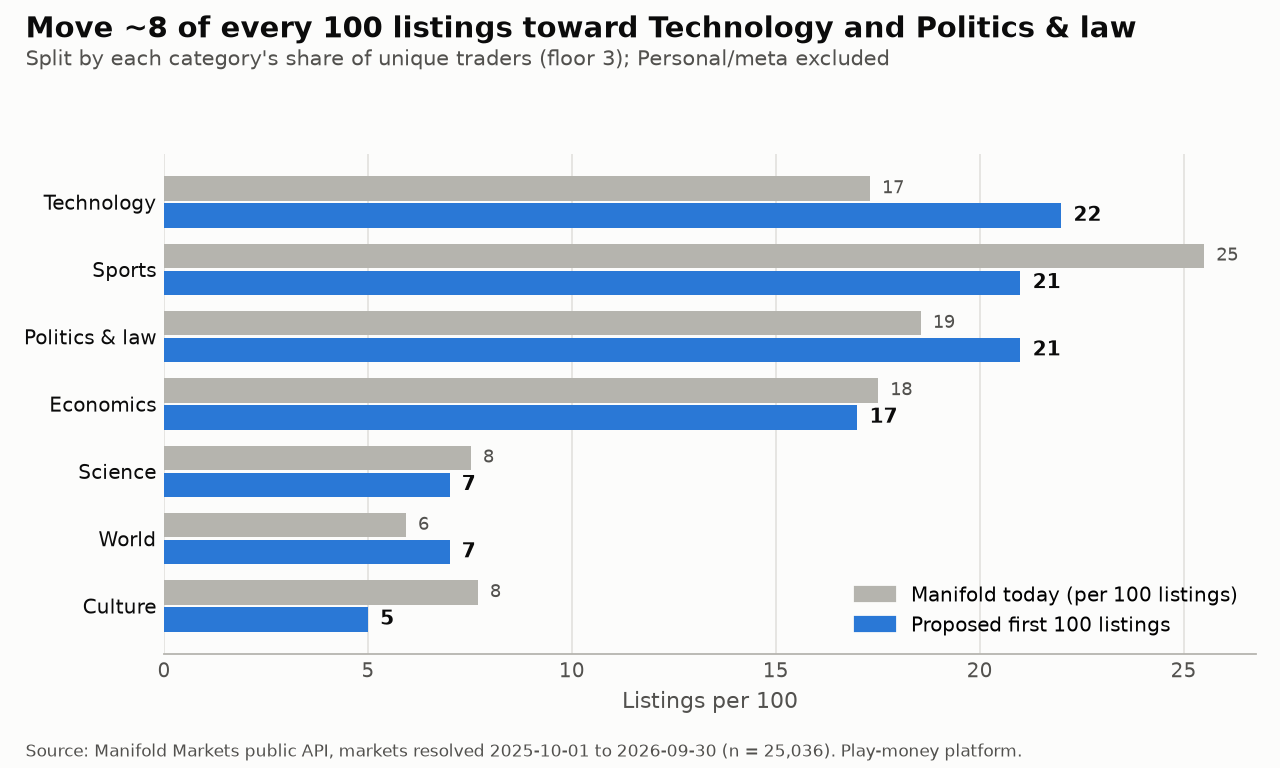
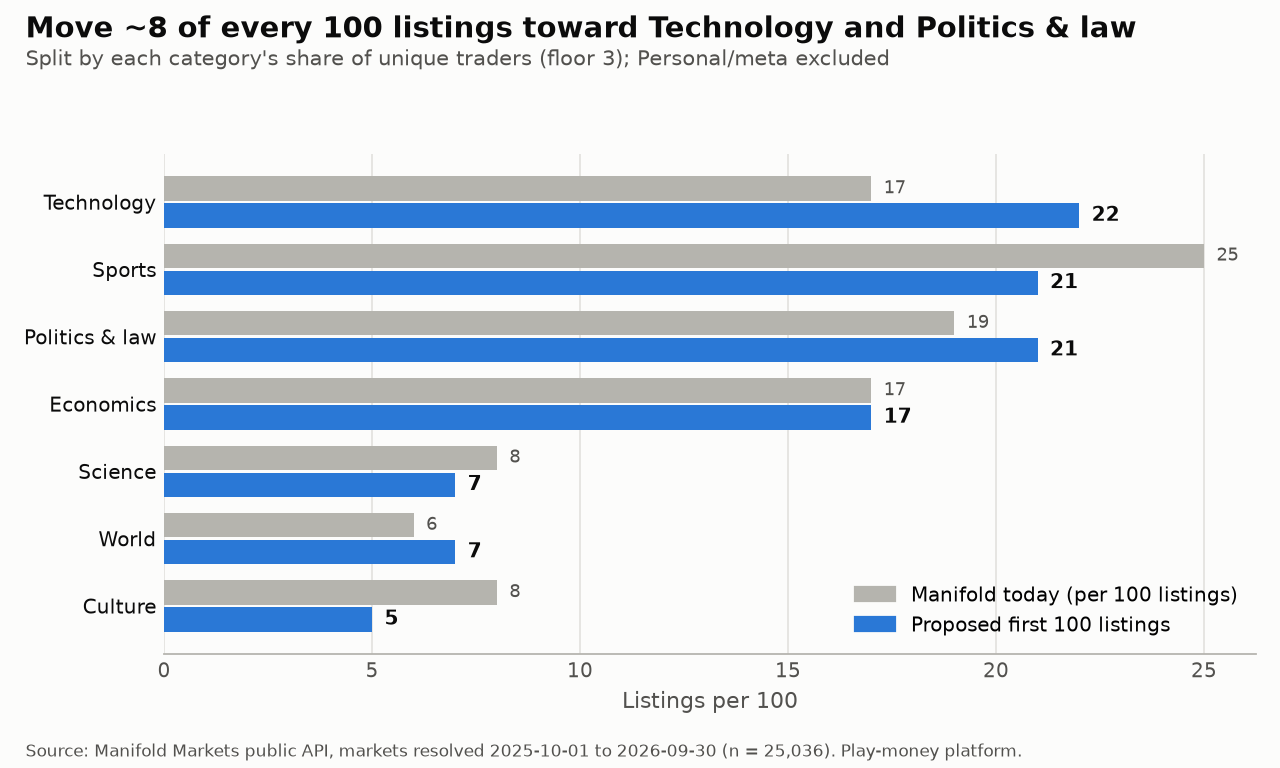
Verify citations; listing-plan current mix sums to 100
- real_money_comparison.md: every published number now carries its page
  (Le 2026 pp. 2, 5, 6, 22; Burgi, Deng & Whelan 2026 pp. 3, 17; Page &
  Clemen 2013 p. 491). Kalshi's >60% long-shot loss is post-fee for Takers
  and is presented as directional only vs our pre-fee figure; adds Le's
  horizon-matched 12-24h slopes
- Listing plan: Manifold's current mix rounded with the same
  largest-remainder rule (whole listings, sums to 100); stricter test

diff --git a/pipeline/analysis/demand.py b/pipeline/analysis/demand.py
@@ -147,7 +147,10 @@ def listing_plan(df: pd.DataFrame, category_col: str = "category") -> pd.DataFra
     mix = listing_mix(real, [category_col])
     plan = pd.DataFrame(
         {
-            "current_per_100": mix.share_listings * 100,  # Manifold's mix, exchange categories only
+            # Manifold's current mix (exchange categories only), rounded by the same
+            # largest-remainder rule as the plan: whole listings that sum to exactly 100
+            "current_share": mix.share_listings,
+            "current_per_100": allocate(mix.share_listings, floor=0),
             "trader_share": mix.share_traders,
             "median_traders": mix.median_traders,
         }
@@ -461,7 +464,7 @@ def fig_listing_plan(plan: pd.DataFrame, n: int) -> str:
     ax.barh(y + h / 2 + 0.02, t.current_per_100, h, color=MUTED)
     ax.barh(y - h / 2 - 0.02, t.plan_first_100, h, color=BLUE)
     for yi, (cur, new) in enumerate(zip(t.current_per_100, t.plan_first_100, strict=True)):
-        ax.text(cur + 0.3, yi + h / 2 + 0.02, f"{cur:.0f}", va="center", fontsize=8, color=TEXT_2)
+        ax.text(cur + 0.3, yi + h / 2 + 0.02, f"{cur}", va="center", fontsize=8, color=TEXT_2)
         ax.text(
             new + 0.3,
             yi - h / 2 - 0.02,

diff --git a/tests/test_analysis.py b/tests/test_analysis.py
@@ -8,6 +8,7 @@ from pipeline.analysis.demand import (
     allocate,
     bottom_share,
     gini,
+    listing_plan,
     median_ci,
     share_of_markets_for,
     top_share,
@@ -79,3 +80,21 @@ def test_brier_and_log_loss_reward_better_forecasts():
     good, bad = pd.Series([0.9, 0.1, 0.8, 0.2]), pd.Series([0.5, 0.5, 0.5, 0.5])
     assert brier(good, y) < brier(bad, y) == pytest.approx(0.25)
     assert log_loss(good, y) < log_loss(bad, y)
+
+
+def test_listing_plan_columns_are_whole_listings_summing_to_100():
+    df = pd.DataFrame(
+        {
+            "category": ["Sports"] * 5
+            + ["Technology"] * 3
+            + ["Culture"] * 2
+            + ["Uncategorized"] * 4,
+            "unique_traders": [10] * 5 + [30] * 3 + [5] * 2 + [1] * 4,
+            "volume": [1.0] * 14,
+        }
+    )
+    plan = listing_plan(df)
+    for col in ("current_per_100", "plan_first_100"):
+        assert pd.api.types.is_integer_dtype(plan[col]), col  # whole listings, not shares
+        assert plan[col].sum() == 100, col
+    assert "Uncategorized" not in plan.index

diff --git a/docs/real_money_comparison.md b/docs/real_money_comparison.md
@@ -1,25 +1,30 @@
 # How do Manifold's play-money prices compare with real-money markets?
 
-Our numbers come from `reports/results.json` (`pricing` section) and are reproduced by `python -m pipeline.analysis.calibration`. Published numbers are quoted from the cited papers. Units differ between studies (noted per row), so read this as a comparison of **direction and rough size**, not a like-for-like test.
+Our numbers come from `reports/results.json` (`pricing` section) and are reproduced by `python -m pipeline.analysis.calibration`. Each published number has its page reference so it can be checked in the source PDF. Units and horizons differ between studies (noted per row), so this compares **direction and rough size**, not a like-for-like test.
 
-| Measure | Manifold (this project) | Real-money evidence | Source |
+| Measure | Manifold (this project) | Real-money evidence | Where in the source |
 |---|---|---|---|
-| Calibration slope, ~1 day before close (logistic recalibration; >1 = underconfident, i.e. prices compressed toward 50%) | **1.25** (95% CI 1.19–1.31), 8,482 markets, price 24h before close | Mean slope rises from **0.99** within one hour of resolution to **1.32** beyond one month (Kalshi, cell-level averages over trades) | Le (2026) |
-| Calibration slope ~1 hour before close | **1.32** (95% CI 1.25–1.39) | **0.99** within one hour of resolution | Le (2026) |
-| Politics | **1.28** (Politics & law) | Persistently underconfident: mean slope **1.31** on Polymarket, **1.64** on Kalshi | Le (2026) |
-| Sports | **1.11** (95% CI 0.95–1.27; can't reject 1) | Well calibrated at short-to-medium horizons (slopes **0.90–1.10**) | Le (2026) |
-| Long shots: average return of buying YES below 10% | **−67%** (pre-fee, play money; 3,855 markets) | Contracts under 10¢ "lose over 60 percent" of the money invested | Bürgi, Deng & Whelan (2026) |
-| Favorites: average return of buying YES above 50% | **+2.0%** (pre-fee, play money) | "a small positive rate of return" for contracts above 50¢ | Bürgi, Deng & Whelan (2026) |
-| Bias vs. time to expiration | Bias present at 24h and 1h | Favorite–long-shot bias grows with time to expiration; markets are reasonably well calibrated close to expiration | Page & Clemen (2013) |
+| Calibration slope at ~1 day before close (logistic recalibration; > 1 = underconfident, prices compressed toward 50%) | **1.25** (95% CI 1.19–1.31), one price per market 24 h before close, 8,482 markets | 12–24 h bin, trade-weighted: Kalshi **1.053** Sports, **1.006** Crypto, **1.477** Politics; Polymarket **1.059**, **0.996**, **1.277** | Le (2026), Table 15, p. 22 |
+| Calibration slope ~1 hour before close | **1.32** (95% CI 1.25–1.39), price 1 h before close | Kalshi: the mean cell-level slope (averaged across domain × trade-size cells) rises from **0.99** within one hour of resolution to **1.32** beyond one month | Le (2026), p. 2 |
+| Politics | **1.28** (Politics & law, 24 h) | 12–24 h bin: Kalshi **1.477**, Polymarket **1.277**. Across horizons, trade-weighted mean over the seven reliable bins (3 h to 1 month+): Polymarket **1.31**, Kalshi **1.64** | Le (2026), p. 2; definition in the Table 15 note, p. 22 |
+| Sports | **1.11** (95% CI 0.95–1.27; can't reject 1) | Kalshi Sports is well calibrated from 0 to 48 hours (slopes **0.90–1.10**) and underconfident beyond one month (**1.74**) | Le (2026), p. 6 |
+| Long shots: average return of buying YES below 10% | **−67%**, *pre-fee*, play money, 3,855 markets | Kalshi, *post-fee* for Takers: average loss rates for contracts priced 10¢ and under exceed **60%** | Bürgi, Deng & Whelan (2026), Section 3.3 and Figure 5, p. 17; also summarized in the introduction, p. 3 |
+| Favorites: average return of buying YES above 50% | **+2.0%**, *pre-fee*, play money | Kalshi, post-fee: small positive returns above 50¢, statistically significant above 70¢ | Bürgi, Deng & Whelan (2026), p. 17 |
+| Bias vs. time to expiration | Present at both 24 h and 1 h | Favorite–long-shot bias grows with time to expiration; markets are reasonably well calibrated when expiration is near | Page & Clemen (2013), abstract, p. 491 |
 
 ## Reading it
 
-- **The direction matches the real-money evidence:** long shots are overpriced and favorites underpriced (a favorite–long-shot bias), and Politics is underconfident. Even on a play-money platform the pattern and its rough size line up with Kalshi and Polymarket.
-- **The one clear difference is close to resolution.** Real-money markets converge to calibration within the last hour (slope 0.99); Manifold does not (1.32), even though its accuracy still improves (Brier 0.052 at 1h vs 0.075 at 24h). One plausible reason, which we haven't tested: with play money, the reward for pushing a near-certain market from 97% to 99% is tiny, so nobody bothers, while real-money traders are paid to close that gap.
-- **Units differ.** Le (2026) weights by trades and reports cell-level averages across domains and trade sizes; Bürgi et al. use Kalshi's closing and daily prices; we use one price per market at a fixed horizon. Le (2026) is a single-author arXiv preprint and Bürgi et al. (2026) is a working paper; Page & Clemen (2013) is peer-reviewed.
+- **The direction matches the real-money evidence.** Long shots are overpriced and favorites underpriced, Politics is the most underconfident domain, and Sports is the closest to calibrated. Our 24 h Politics slope (1.28) sits between Polymarket and Kalshi in the same horizon bin (1.28 and 1.48). Our Sports slope (1.11) is slightly above theirs (about 1.05) and statistically consistent with 1.
+- **The long-shot comparison is directional only.** Bürgi et al.'s 60%+ loss is *after* Kalshi's fees, for contracts at or below 10¢. Our −67% is *before* fees, on play money, for prices below 10%. Both say long shots lose most of what's put into them, but the numbers aren't directly comparable. Our figure is a size-of-mispricing measure, not a trading strategy.
+- **The clear difference is close to resolution.** Le reports Kalshi's average slope at about 0.99 within the last hour; Manifold is at 1.32 one hour before close, even though its accuracy still improves (Brier 0.052 at 1 h vs. 0.075 at 24 h). A plausible explanation, which we haven't tested: with play money, the reward for pushing a near-certain market from 97% to 99% is tiny, while real-money traders are paid to close that gap.
+- **Methods and status differ.**
+  - Le (2026) is a single-author arXiv preprint. It estimates slopes on trades and reports cell-level or trade-weighted averages. Its Polymarket results exclude the two shortest bins because of timestamp noise (p. 5).
+  - Bürgi, Deng & Whelan (2026) is a working paper using Kalshi's closing and daily prices for contracts open at least 24 h.
+  - Page & Clemen (2013) is peer-reviewed.
+  - We use one price per market at a fixed horizon.
 
 ## Sources
 
-- Bürgi, C., Deng, W., & Whelan, K. (2026). *Makers and Takers: The Economics of the Kalshi Prediction Market.* Working paper, University College Dublin (January 2026 version; also CESifo WP 12122 and CEPR DP 20631). https://www.karlwhelan.com/Papers/Kalshi.pdf
-- Le, N. A. (2026). *Decomposing Crowd Wisdom: Domain-Specific Calibration Dynamics in Prediction Markets.* arXiv:2602.19520. https://arxiv.org/abs/2602.19520
-- Page, L., & Clemen, R. T. (2013). Do Prediction Markets Produce Well-Calibrated Probability Forecasts? *The Economic Journal*, 123(568), 491–513. https://ideas.repec.org/a/ecj/econjl/v123y2013i568p491-513.html
+- Bürgi, C., Deng, W., & Whelan, K. (2026, January). *Makers and Takers: The Economics of the Kalshi Prediction Market.* Working paper, University College Dublin; also CESifo Working Paper 12122 and CEPR DP 20631. https://www.karlwhelan.com/Papers/Kalshi.pdf (page numbers refer to this 44-page version).
+- Le, N. A. (2026). *Decomposing Crowd Wisdom: Domain-Specific Calibration Dynamics in Prediction Markets.* arXiv:2602.19520v1. National Economics University, Vietnam. https://arxiv.org/abs/2602.19520 (page numbers refer to the 22-page v1 PDF).
+- Page, L., & Clemen, R. T. (2013). Do Prediction Markets Produce Well-Calibrated Probability Forecasts? *The Economic Journal*, 123(568), 491–513. https://doi.org/10.1111/j.1468-0297.2012.02561.x
